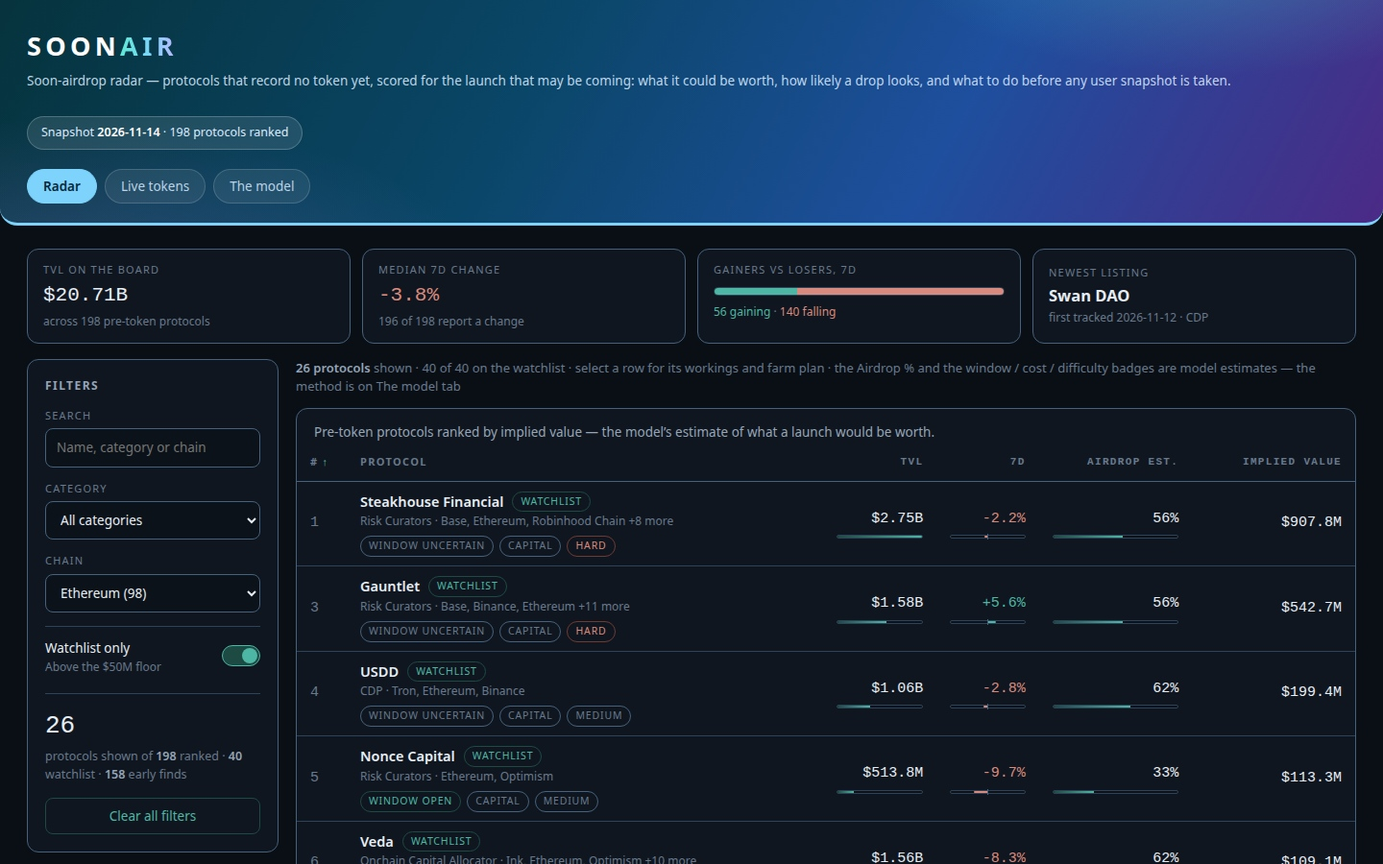
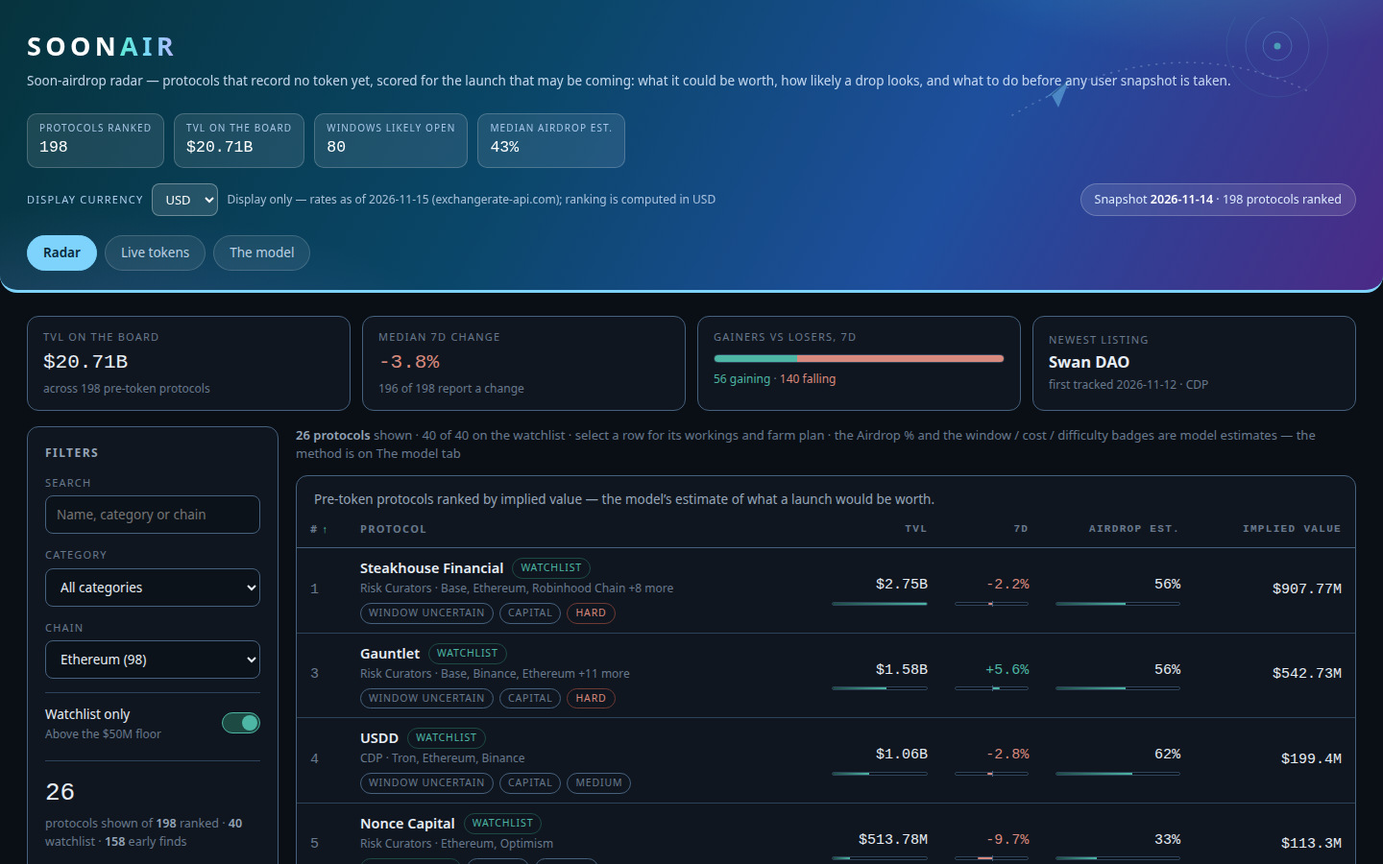
SOONAIR v5: display-currency switching and a fuller masthead
- Currency selector in the masthead (USD/EUR/GBP/JPY/CNY/IDR/KRW): rates baked
  into data.js at build time from exchangerate-api.com (2026-11-15), conversion
  display-only through one formatter; ranking and model maths stay in USD, and
  the selector carries that note. Zero-decimal currencies show no cents.
- Masthead stat cluster from the board itself (protocols ranked, total TVL,
  windows likely open, median airdrop estimate) over an inline-SVG radar motif.
- board.json byte-identical; dashboard source 65,195 of the 65,536 cap.

diff --git a/dashboard/app.js b/dashboard/app.js
@@ -11,15 +11,39 @@
   var app = document.getElementById('app');
   var maxTvl = 0;
   DATA.rows.forEach(function (r) { if (r.tvl_usd > maxTvl) maxTvl = r.tvl_usd; });
-  var state = { view: 'board', q: '', category: 'all', chain: 'all', watch: false, sort: 'rank', dir: 1, selected: null };
+  // the masthead's stat cluster: aggregates of the board itself, computed once
+  var openCount = 0;
+  var airSorted = DATA.rows.map(function (r) { return r.air; }).sort(function (a, b) { return a - b; });
+  DATA.rows.forEach(function (r) { if (r.win === 0) openCount++; });
+  var medAir = airSorted.length ? airSorted[Math.floor(airSorted.length / 2)] : 0;
+  // display currency: the rates are baked into data.js (DATA.fx) so the page stays offline, and
+  // conversion is display only — ranking, sorting and every model figure stay in USD, as the
+  // note beside the selector in the masthead says. Percentages, multiples and scores never pass
+  // through this formatter, so they never convert.
+  var CCYS = ['USD', 'EUR', 'GBP', 'JPY', 'CNY', 'IDR', 'KRW'];
+  var NO_CENTS = { JPY: 1, IDR: 1, KRW: 1 };
+  var FXD = DATA.fx || { as_of: '', source: '', rates: {} };
+  function loadCcy() {
+    try { var c = window.localStorage.getItem('soonair-ccy'); return CCYS.indexOf(c) >= 0 ? c : 'USD'; }
+    catch (e) { return 'USD'; }
+  }
+  function saveCcy() { try { window.localStorage.setItem('soonair-ccy', state.ccy); } catch (e) { /* a blocked store just means the choice lasts the visit */ } }
+  var state = { view: 'board', q: '', category: 'all', chain: 'all', watch: false, sort: 'rank', dir: 1, selected: null, ccy: loadCcy() };
 
-  var usd0 = new Intl.NumberFormat('en-US', { style: 'currency', currency: 'USD', maximumFractionDigits: 0 });
-  function fmtUsd(n) {
+  var fmtCache = {};
+  function fmtMoney(n) {
     if (n === null || n === undefined || !isFinite(n)) return 'n/a';
-    if (Math.abs(n) >= 1e9) return '$' + (n / 1e9).toFixed(2) + 'B';
-    if (Math.abs(n) >= 1e6) return '$' + (n / 1e6).toFixed(1) + 'M';
-    if (Math.abs(n) >= 1e3) return '$' + Math.round(n / 1e3) + 'K';
-    return usd0.format(n);
+    var c = state.ccy;
+    var f = fmtCache[c];
+    if (!f) {
+      f = fmtCache[c] = {
+        rate: FXD.rates[c] || 1,
+        full: new Intl.NumberFormat('en-US', { style: 'currency', currency: c, maximumFractionDigits: 0 }),
+        big: new Intl.NumberFormat('en-US', { style: 'currency', currency: c, notation: 'compact', maximumFractionDigits: NO_CENTS[c] ? 0 : 2 })
+      };
+    }
+    var v = n * f.rate;
+    return Math.abs(v) >= 10000 ? f.big.format(v) : f.full.format(v);
   }
   function fmtPct(n) {
     if (n === null || n === undefined || !isFinite(n)) return 'n/a';
@@ -115,16 +139,48 @@
     writeHash(); render();
   }
 
-  // ---- chrome: a coloured masthead band — wordmark, provenance chip and the three view tabs
+  // ---- chrome: a coloured masthead band — wordmark, a radar motif, the board's own vital
+  // signs, the currency control and the three view tabs
+  function hstat(k, v) {
+    return el('div', { class: 'hstat' },
+      el('div', { class: 'hk', text: k }),
+      el('div', { class: 'hv', text: v }));
+  }
   function topbar() {
+    // decoration only: radar rings, a dotted route arc and a paper plane, drawn in the gradient
+    var motif = el('div', { class: 'motif', 'aria-hidden': 'true' });
+    motif.innerHTML = '<svg width="360" height="118" viewBox="0 0 360 118" fill="none"><circle cx="282" cy="30" r="15" stroke="rgba(125,211,252,.5)"/><circle cx="282" cy="30" r="33" stroke="rgba(125,211,252,.30)"/><circle cx="282" cy="30" r="53" stroke="rgba(94,234,212,.18)"/><circle cx="282" cy="30" r="3.5" fill="#5eead4"/><path d="M6 102 Q170 6 316 78" stroke="rgba(219,234,254,.45)" stroke-width="1.6" stroke-dasharray="1 7" stroke-linecap="round"/><path d="M40 84 L66 64 L54 94 L47 81 Z" fill="rgba(125,211,252,.8)"/><path d="M47 81 L66 64" stroke="rgba(6,40,59,.55)" stroke-width="1.2"/></svg>';
     return el('div', { class: 'topbar' },
+      motif,
       el('div', { class: 'brand' },
         el('h1', null, 'SOON', el('em', null, 'AIR')),
         el('div', { class: 'tag', text: 'Soon-airdrop radar — protocols that record no token yet, scored for the launch that may be coming: what it could be worth, how likely a drop looks, and what to do before any user snapshot is taken.' })
       ),
-      el('div', { class: 'topmeta' },
-        'Snapshot ', el('b', { text: DATA.as_of }), ' · ' + DATA.board_size + ' protocols ranked')
+      el('div', { class: 'hstats' },
+        hstat('Protocols ranked', String(DATA.board_size)),
+        hstat('TVL on the board', fmtMoney(DATA.pulse.total_tvl_usd)),
+        hstat('Windows likely open', String(openCount)),
+        hstat('Median airdrop est.', medAir + '%'))
     );
+  }
+
+  // the masthead's control row: the display-currency selector with its honesty note, and the
+  // provenance chip that used to sit beside the wordmark
+  function mastctl() {
+    var sel = el('select', { 'aria-label': 'Display currency' });
+    CCYS.forEach(function (c) {
+      var o = el('option', { value: c, text: c });
+      if (c === state.ccy) o.setAttribute('selected', 'selected');
+      sel.appendChild(o);
+    });
+    sel.addEventListener('change', function () { state.ccy = sel.value; saveCcy(); render(); });
+    return el('div', { class: 'mastctl' },
+      el('div', { class: 'ccy' },
+        el('label', { text: 'Display currency' }),
+        sel,
+        el('span', { class: 'ccynote', text: 'Display only — rates as of ' + FXD.as_of + ' (' + FXD.source + '); ranking is computed in USD' })),
+      el('div', { class: 'topmeta' },
+        'Snapshot ', el('b', { text: DATA.as_of }), ' · ' + DATA.board_size + ' protocols ranked'));
   }
 
   function tabs() {
@@ -176,7 +232,7 @@
       el('div', { class: 'toggle' },
         el('span', null,
           el('span', { class: 'tlabel', text: 'Watchlist only' }),
-          el('span', { class: 'tsub', text: 'Above the $' + Math.round(DATA.floor_usd / 1e6) + 'M floor' })),
+          el('span', { class: 'tsub', text: 'Above the ' + fmtMoney(DATA.floor_usd) + ' floor' })),
         el('span', { class: 'switch' }, toggle, el('span', { class: 'track' }))),
       el('div', { class: 'rail-count' },
         el('div', { class: 'n', text: String(shown) }),
@@ -196,7 +252,7 @@
     return el('div', { class: 'pulse' },
       el('div', { class: 'pcell' },
         el('div', { class: 'k', text: 'TVL on the board' }),
-        el('div', { class: 'v', text: fmtUsd(p.total_tvl_usd) }),
+        el('div', { class: 'v', text: fmtMoney(p.total_tvl_usd) }),
         el('div', { class: 's', text: 'across ' + DATA.board_size + ' pre-token protocols' })),
       el('div', { class: 'pcell' },
         el('div', { class: 'k', text: 'Median 7d change' }),
@@ -230,8 +286,8 @@
             n.watchlist ? el('span', { class: 'badge wl', text: 'Watchlist' }) : el('span', { class: 'badge', text: 'Early find' })),
           el('div', { class: 'nc-date', text: 'First tracked ' + n.listed_at }),
           el('div', { class: 'nc-figs' },
-            el('span', null, el('span', { class: 'nc-k', text: 'TVL ' }), fmtUsd(n.tvl_usd)),
-            el('span', null, el('span', { class: 'nc-k', text: 'Implied ' }), fmtUsd(n.implied_value_usd))),
+            el('span', null, el('span', { class: 'nc-k', text: 'TVL ' }), fmtMoney(n.tvl_usd)),
+            el('span', null, el('span', { class: 'nc-k', text: 'Implied ' }), fmtMoney(n.implied_value_usd))),
           el('div', { class: 'psub', text: n.category || 'Uncategorized' }));
       })));
   }
@@ -287,7 +343,7 @@
               el('span', { class: 'badge' + (r.cost === 0 ? ' good' : ''), text: COST_L[r.cost] }),
               el('span', { class: 'badge' + (r.diff === 2 ? ' risk' : ''), text: DIFF_L[r.diff] }))),
           el('td', { class: 'num' },
-            el('div', { text: fmtUsd(r.tvl_usd) }),
+            el('div', { text: fmtMoney(r.tvl_usd) }),
             el('div', { class: 'tbar', 'aria-hidden': 'true' },
               el('div', { class: 'tfill', style: 'width:' + (maxTvl > 0 ? (r.tvl_usd / maxTvl * 100) : 0).toFixed(1) + '%' }))),
           el('td', { class: dcls },
@@ -297,7 +353,7 @@
             el('div', null, el('span', { class: 'big', text: r.air + '%' })),
             el('div', { class: 'tbar', 'aria-hidden': 'true' },
               el('div', { class: 'tfill', style: 'width:' + r.air + '%' }))),
-          el('td', { class: 'num' }, el('span', { class: 'big', text: fmtUsd(r.implied_value_usd) }))
+          el('td', { class: 'num' }, el('span', { class: 'big', text: fmtMoney(r.implied_value_usd) }))
         ));
       });
       main = el('div', { class: 'panel' }, el('table', null,
@@ -335,7 +391,7 @@
     var maxs = [sc.prop_weight, sc.tvl_weight, sc.age_weight, sc.momentum_weight, sc.breadth_weight];
     var notes = [
       'the shrunk share of ' + (row.category || 'Uncategorized') + ' protocols in the snapshot that already record a token — shrinkage prior ' + sc.prop_prior,
-      fmtUsd(row.tvl_usd) + ' on a log ramp from ' + fmtUsd(sc.tvl_floor_usd) + ' (no points) to ' + fmtUsd(sc.tvl_full_usd) + ' (full points)',
+      fmtMoney(row.tvl_usd) + ' on a log ramp from ' + fmtMoney(sc.tvl_floor_usd) + ' (no points) to ' + fmtMoney(sc.tvl_full_usd) + ' (full points)',
       fmtAge(row.age_days) + ' with no token on record' + (row.age_days === null || row.age_days === undefined ? ' — no date on record, counted as ' + sc.unknown_age_days + ' days' : ''),
       'a 7-day TVL change of ' + fmtPct(row.change_7d) + ', mapped from ' + sc.momentum_floor_pct + '% across ' + sc.momentum_span_pct + ' points',
       (row.chains || []).length + ' chain(s) served; full points at ' + sc.breadth_full_chains,
@@ -359,8 +415,8 @@
     var costText = row.cost === 0
       ? 'Free to join: an account signup, no position locked, any balance stays spendable.'
       : row.cost === 2
-        ? 'Capital: the farm plan’s core step (step 2) locks a position of $150 or more — the amount is stated there.'
-        : 'Low $: the plan works a small balance; its core step commits under $150.';
+        ? 'Capital: the farm plan’s core step (step 2) locks a position of ' + fmtMoney(150) + ' or more — the amount is stated there.'
+        : 'Low $: the plan works a small balance; its core step commits under ' + fmtMoney(150) + '.';
     var facts = [
       ['Snapshot window', WIN_L[row.win]],
       ['First tracked', row.listed_at || 'unrecorded'],
@@ -395,8 +451,8 @@
         el('div', { class: 'pnote', text: note }));
     }
     var parts = [
-      pbar('TVL vs the field', row.tvl_pct, fmtUsd(row.tvl_usd) + ' against ' + DATA.board_size + ' ranked protocols'),
-      pbar('Implied value vs the field', row.value_pct, fmtUsd(row.implied_value_usd) + ' — the board’s ranking made visible'),
+      pbar('TVL vs the field', row.tvl_pct, fmtMoney(row.tvl_usd) + ' against ' + DATA.board_size + ' ranked protocols'),
+      pbar('Implied value vs the field', row.value_pct, fmtMoney(row.implied_value_usd) + ' — the board’s ranking made visible'),
     ];
     var own = mult(row);
     var med = row.cat_median_mult;
@@ -448,11 +504,11 @@
     var facts = [
       ['Category', row.category || 'Uncategorized'],
       ['Chains', (row.chains || []).join(', ') || 'unrecorded'],
-      ['TVL', fmtUsd(row.tvl_usd)],
+      ['TVL', fmtMoney(row.tvl_usd)],
       ['TVL change, 7d', fmtPct(row.change_7d)],
       ['First tracked', row.listed_at || 'unrecorded'],
       ['Age with no token', fmtAge(row.age_days)],
-      ['On the watchlist', row.watchlist ? 'Yes — above the $' + Math.round(DATA.floor_usd / 1e6) + 'M floor' : 'No — an early find'],
+      ['On the watchlist', row.watchlist ? 'Yes — above the ' + fmtMoney(DATA.floor_usd) + ' floor' : 'No — an early find'],
       ['Token', 'none on record'],
       ['Implied multiple', mult(row) === null ? 'n/a' : fmtRatio(mult(row)) + ' of TVL'],
     ];
@@ -466,21 +522,21 @@
           row.watchlist ? el('span', { class: 'badge wl', text: 'Watchlist' }) : el('span', { class: 'badge', text: 'Early find' }))),
       el('div', { class: 'stats', style: 'margin-top:16px' },
         statTile('Rank', '#' + row.rank, 'of ' + DATA.board_size + ' priced'),
-        statTile('TVL', fmtUsd(row.tvl_usd), 'the snapshot’s figure'),
+        statTile('TVL', fmtMoney(row.tvl_usd), 'the snapshot’s figure'),
         statTile('TVL change, 7d', fmtPct(row.change_7d), 'momentum into a launch'),
-        statTile('Implied value', fmtUsd(row.implied_value_usd), mult(row) === null ? '' : fmtRatio(mult(row)) + ' of TVL')),
+        statTile('Implied value', fmtMoney(row.implied_value_usd), mult(row) === null ? '' : fmtRatio(mult(row)) + ' of TVL')),
       el('div', { class: 'detail-grid' },
         el('div', { class: 'col' },
           outlookCard(row),
           standCard(row),
           el('section', { class: 'card' },
             el('h3', { text: 'How the model prices it' }),
-            frow('TVL', null, 'the snapshot’s figure', fmtUsd(row.tvl_usd), 'base', false),
-            frow('R · comparable multiple', row.comp_ratio, row.comp_count + ' launched ' + (row.category || '') + ' protocols set this price', fmtUsd(Math.round(afterComp)), '', true),
-            frow('G · momentum', row.growth_multiplier, '7-day TVL change of ' + fmtPct(row.change_7d), fmtUsd(Math.round(afterGrowth)), '', true),
-            frow('M · track record', row.maturity_multiplier, fmtAge(row.age_days) + ' with no token on record', fmtUsd(Math.round(afterMat)), '', true),
-            frow('B · breadth', row.breadth_multiplier, (row.chains || []).length + ' chain(s) served', fmtUsd(Math.round(afterMat * row.breadth_multiplier)), '', true),
-            frow('Implied value', null, 'the model’s estimate, not a price or a promise', fmtUsd(row.implied_value_usd), 'total', false),
+            frow('TVL', null, 'the snapshot’s figure', fmtMoney(row.tvl_usd), 'base', false),
+            frow('R · comparable multiple', row.comp_ratio, row.comp_count + ' launched ' + (row.category || '') + ' protocols set this price', fmtMoney(Math.round(afterComp)), '', true),
+            frow('G · momentum', row.growth_multiplier, '7-day TVL change of ' + fmtPct(row.change_7d), fmtMoney(Math.round(afterGrowth)), '', true),
+            frow('M · track record', row.maturity_multiplier, fmtAge(row.age_days) + ' with no token on record', fmtMoney(Math.round(afterMat)), '', true),
+            frow('B · breadth', row.breadth_multiplier, (row.chains || []).length + ' chain(s) served', fmtMoney(Math.round(afterMat * row.breadth_multiplier)), '', true),
+            frow('Implied value', null, 'the model’s estimate, not a price or a promise', fmtMoney(row.implied_value_usd), 'total', false),
             el('div', { class: 'note', text: 'Bars share one scale, ×0 to ×2.5; the tick marks ×1.' })),
           el('section', { class: 'card' },
             el('h3', { text: 'The record' }),
@@ -510,17 +566,17 @@
           el('span', { class: 'pname', text: r.name }),
           el('div', { class: 'psub', text: (r.category || 'Uncategorized') + ' · ' + ((r.chains || []).slice(0, 3).join(', ') || '') })),
         el('td', { class: 'num', text: r.symbol || '—' }),
-        el('td', { class: 'num', text: fmtUsd(r.tvl_usd) }),
+        el('td', { class: 'num', text: fmtMoney(r.tvl_usd) }),
         el('td', { class: r.change_7d > 0 ? 'delta up' : (r.change_7d < 0 ? 'delta down' : 'delta flat'), text: fmtPct(r.change_7d) }),
-        el('td', { class: 'num', text: fmtUsd(r.mcap_usd) }),
+        el('td', { class: 'num', text: fmtMoney(r.mcap_usd) }),
         el('td', { class: 'num', text: r.tvl_usd > 0 && r.mcap_usd ? fmtRatio(r.mcap_usd / r.tvl_usd) : 'n/a' })));
     });
     return el('div', null,
       el('div', { class: 'stats' },
         statTile('Protocols trading', String(DATA.live_total), 'never ranked by the model'),
         statTile('Shown here', String(DATA.live.length), 'the largest by TVL'),
-        statTile('Their combined TVL', fmtUsd(tvlSum), 'of the ones shown'),
-        statTile('Combined market cap', fmtUsd(mcapSum), 'a fact, not an estimate')),
+        statTile('Their combined TVL', fmtMoney(tvlSum), 'of the ones shown'),
+        statTile('Combined market cap', fmtMoney(mcapSum), 'a fact, not an estimate')),
       el('div', { class: 'panel' }, el('table', { class: 'compact' },
         el('caption', { text: 'Already trading: the ' + DATA.live_total + ' protocols whose token exists are never ranked by the model — their market cap is a fact, not an estimate. The largest ' + DATA.live.length + ' are shown; their FDV/TVL ratios are the comparables the radar prices from.' }),
         el('thead', null, el('tr', null,
@@ -541,7 +597,7 @@
       return el('div', { class: 'catrow' },
         el('div', { class: 'cathead' },
           el('span', { text: name }),
-          el('span', { class: 'catfig', text: fmtUsd(tvl) + ' · ' + count + ' ranked' })),
+          el('span', { class: 'catfig', text: fmtMoney(tvl) + ' · ' + count + ' ranked' })),
         el('div', { class: 'cattrack', 'aria-hidden': 'true' },
           el('div', { class: 'catfill', style: 'width:' + (max > 0 ? (tvl / max * 100) : 0).toFixed(1) + '%' })));
     }
@@ -579,9 +635,9 @@
             el('p', null, el('b', { text: 'B — breadth. ' }), '1 + ' + m.breadth_per_chain + ' per extra chain served, capped at ' + m.breadth_max_chains + '. Distribution a token launches into is worth a little, not a lot.')),
           el('section', { class: 'card' },
             el('h3', { text: 'How SOONAIR scores' }),
-            el('p', null, el('b', { text: 'Airdrop likelihood, 0–100. ' }), 'Five parts, every one computed from the snapshot and printed in full on each protocol’s detail page. Category launch share, ' + DATA.score.prop_weight + ' points: the share of the category’s own protocols that already record a token, shrunk toward the snapshot-wide share — ' + DATA.launched_count + ' of ' + DATA.snapshot_count + ' protocols (' + Math.round(DATA.launch_share * 100) + '%) — with a prior of ' + DATA.score.prop_prior + ', the same shrinkage R uses. TVL band, ' + DATA.score.tvl_weight + ': a log ramp from ' + fmtUsd(DATA.score.tvl_floor_usd) + ' to ' + fmtUsd(DATA.score.tvl_full_usd) + '. Track record, ' + DATA.score.age_weight + ': 1 − exp(−age / ' + DATA.score.age_tau_days + ' days), an unrecorded listing date counting as ' + DATA.score.unknown_age_days + ' days. Momentum, ' + DATA.score.momentum_weight + ': the 7-day change mapped from ' + DATA.score.momentum_floor_pct + '% across ' + DATA.score.momentum_span_pct + ' points. Breadth, ' + DATA.score.breadth_weight + ': chains served, full at ' + DATA.score.breadth_full_chains + '.'),
+            el('p', null, el('b', { text: 'Airdrop likelihood, 0–100. ' }), 'Five parts, every one computed from the snapshot and printed in full on each protocol’s detail page. Category launch share, ' + DATA.score.prop_weight + ' points: the share of the category’s own protocols that already record a token, shrunk toward the snapshot-wide share — ' + DATA.launched_count + ' of ' + DATA.snapshot_count + ' protocols (' + Math.round(DATA.launch_share * 100) + '%) — with a prior of ' + DATA.score.prop_prior + ', the same shrinkage R uses. TVL band, ' + DATA.score.tvl_weight + ': a log ramp from ' + fmtMoney(DATA.score.tvl_floor_usd) + ' to ' + fmtMoney(DATA.score.tvl_full_usd) + '. Track record, ' + DATA.score.age_weight + ': 1 − exp(−age / ' + DATA.score.age_tau_days + ' days), an unrecorded listing date counting as ' + DATA.score.unknown_age_days + ' days. Momentum, ' + DATA.score.momentum_weight + ': the 7-day change mapped from ' + DATA.score.momentum_floor_pct + '% across ' + DATA.score.momentum_span_pct + ' points. Breadth, ' + DATA.score.breadth_weight + ': chains served, full at ' + DATA.score.breadth_full_chains + '.'),
             el('p', null, el('b', { text: 'Snapshot window. ' }), 'An estimate from age alone — protocols do not publish snapshot dates, so no date is ever shown as one. Under ' + DATA.score.window_open_days + ' days since first tracked: window likely open. Under ' + (DATA.score.window_risk_days / 365) + ' years: window uncertain, and a protocol with no date on record reads uncertain too. Older: snapshot risk — the user snapshot, if there ever is one, was likely already taken. The first-tracked date beside the call is a fact from the record.'),
-            el('p', null, el('b', { text: 'Entry cost. ' }), 'Read off the row’s own farm plan, never its reputation. Free: the payments and card family, whose joining is an account signup and locks no position. Capital: the plan’s core step locks a position — its text commits to supply, deposit, stake, mint, margin, collateral or a liquidity pool — of $150 or more, the plan’s own capital figure for a protocol of its size. Low $: everything smaller, a balance worked rather than a position locked.'),
+            el('p', null, el('b', { text: 'Entry cost. ' }), 'Read off the row’s own farm plan, never its reputation. Free: the payments and card family, whose joining is an account signup and locks no position. Capital: the plan’s core step locks a position — its text commits to supply, deposit, stake, mint, margin, collateral or a liquidity pool — of ' + fmtMoney(150) + ' or more, the plan’s own capital figure for a protocol of its size. Low $: everything smaller, a balance worked rather than a position locked.'),
             el('p', null, el('b', { text: 'Difficulty. ' }), 'Points: 1 for a plan of 6 or more steps, the cost class itself (Free 0, Low $ 1, Capital 2), and 1 for a protocol spread over 5 or more chains. A total of 0–2 reads Easy, 3 Medium, 4 Hard.'),
             el('p', null, 'These four calls are estimates with their weights in the open, not measurements: disagree with a weight and every figure on the board can be re-derived by hand.')),
           el('section', { class: 'card' },
@@ -609,8 +665,9 @@
   function render() {
     app.textContent = '';
     var wrap = el('div', { class: 'wrap' });
-    // the masthead: one coloured band carrying the wordmark, the provenance chip and the view tabs
-    var mast = el('header', { class: 'masthead' }, topbar());
+    // the masthead: one coloured band carrying the wordmark, the stat cluster, the currency
+    // control row and the view tabs
+    var mast = el('header', { class: 'masthead' }, topbar(), mastctl());
     var selected = state.selected ? DATA.rows.filter(function (r) { return r.slug === state.selected; })[0] : null;
     if (selected) {
       wrap.appendChild(mast);

diff --git a/dashboard/app.css b/dashboard/app.css
@@ -48,7 +48,7 @@ main { display: block; }
   border-bottom: 3px solid var(--sky);
   border-radius: 0 0 18px 18px;
 }
-.topbar { display: flex; align-items: flex-start; justify-content: space-between; gap: 24px; flex-wrap: wrap; }
+.topbar { display: flex; align-items: flex-start; justify-content: space-between; gap: 24px; flex-wrap: wrap; position: relative; }
 .brand h1 { font-size: 27px; letter-spacing: 0.16em; margin: 0; font-weight: 700; color: #ffffff; }
 .brand h1 em {
   font-style: normal;
@@ -63,6 +63,22 @@ main { display: block; }
   border-radius: 99px; padding: 7px 14px;
 }
 .topmeta b { color: #ffffff; font-weight: 600; }
+
+/* the masthead's stat cluster: the board's vital signs on frosted tiles, laid over a
+   decorative radar-and-route motif drawn into the gradient, above the control row */
+.motif { position: absolute; right: 4px; top: -10px; opacity: .55; pointer-events: none; }
+.brand, .hstats { position: relative; z-index: 1; }
+.hstats { display: flex; gap: 10px; flex-wrap: wrap; justify-content: flex-end; }
+.hstat { background: rgba(255,255,255,.09); border: 1px solid rgba(255,255,255,.20); border-radius: 10px; padding: 7px 12px; min-width: 102px; }
+.hstat .hk { font-size: 10px; letter-spacing: .11em; text-transform: uppercase; color: rgba(191,219,254,.85); }
+.hstat .hv { font-family: var(--num); font-size: 16.5px; color: #fff; margin-top: 1px; white-space: nowrap; }
+.mastctl { display: flex; align-items: center; justify-content: space-between; gap: 10px 18px; flex-wrap: wrap; margin-top: 16px; position: relative; z-index: 1; }
+.ccy { display: flex; align-items: center; gap: 9px; flex-wrap: wrap; }
+.ccy label { font-size: 11px; letter-spacing: .11em; text-transform: uppercase; color: rgba(191,219,254,.9); }
+.ccy select { width: auto; background: rgba(255,255,255,.12); color: #fff; border-color: rgba(255,255,255,.32); padding: 6px 9px; font-size: 13px; }
+.ccy select option { color: #0a0f16; }
+.ccynote { font-size: 12px; color: rgba(219,234,254,.75); }
+.mastctl .topmeta { margin-top: 0; }
 
 /* view tabs: pills resting on the masthead colour, the current one filled sky */
 .tabs { display: flex; gap: 8px; margin: 20px 0 2px; flex-wrap: wrap; }
@@ -279,6 +295,8 @@ button.pcell:hover { border-color: var(--accent); }
 @media (max-width: 720px) {
   .wrap { padding: 22px 14px 44px; }
   .masthead { margin: -22px -14px 20px; padding: 22px 14px 14px; }
+  .motif { display: none; }
+  .hstats { justify-content: flex-start; }
   .rail { grid-template-columns: 1fr; }
   .facts { grid-template-columns: 1fr 1fr; }
   .panel { overflow-x: auto; }

diff --git a/lib/model.ts b/lib/model.ts
@@ -158,6 +158,25 @@ export const SCORE: ScoreConstants = {
   window_risk_days: 1095,
 };
 
+/**
+ * Display-currency rates, baked in at build time so the dashboard stays fully offline: units of
+ * each currency per 1 USD, from exchangerate-api.com's public table of 2026-11-15. Display only —
+ * every figure the model computes, ranks and sorts by stays in USD; the dashboard converts at
+ * render time and says so beside the selector.
+ */
+export interface FxData {
+  /** The rates' own date, as the source published it. */
+  as_of: string;
+  source: string;
+  rates: Record<string, number>;
+}
+
+export const FX: FxData = {
+  as_of: '2026-11-15',
+  source: 'exchangerate-api.com',
+  rates: { USD: 1, EUR: 0.905984, GBP: 0.756391, JPY: 159.779, CNY: 6.68968, IDR: 18229.4, KRW: 1336.06 },
+};
+
 /** How many rows beyond the watchlist's 40 the radar adds, largest TVL first. */
 export const EARLY_ROWS = 180;
 
@@ -286,6 +305,8 @@ export interface RadarData {
   /** The scoring layer's constants, and the snapshot's own launch record behind the propensity part:
    * launched_count of snapshot_count protocols already record a token, a share of launch_share. */
   score: ScoreConstants;
+  /** Display-currency rates baked in at build time; conversion happens in the dashboard, display only. */
+  fx: FxData;
   launched_count: number;
   snapshot_count: number;
   launch_share: number;
@@ -879,6 +900,7 @@ export function buildRadar(snapshot: Snapshot, model: ModelConstants = MODEL): {
     model,
     model_version: MODEL_VERSION,
     score: SCORE,
+    fx: FX,
     launched_count: launch.launched,
     snapshot_count: launch.total,
     launch_share: round4(launch.share),

diff --git a/README.md b/README.md
@@ -103,6 +103,19 @@ age sets the hold (30–75 days, long enough to span several weekly snapshots), 
 change sets the sizing note — a protocol whose TVL fell hard that week gets a halved first position,
 not the standard one. Every step states what it costs and how long it takes.
 
+## The dashboard's display layer
+
+The masthead carries the board's own vital signs — protocols ranked, the ranked set's total TVL,
+how many protocols sit in a likely-open snapshot window, and the median airdrop estimate — over a
+radar motif drawn in the gradient. Below them sits a display-currency selector: USD, EUR, GBP,
+JPY, CNY, IDR and KRW. The rates are constants baked into `data.js` at build time (`FX` in
+`lib/model.ts`, from exchangerate-api.com's public table of 2026-11-15), so the page stays fully
+offline, and conversion is display only: every figure is converted at render time by the one
+formatter, zero-decimal currencies show no cents, and ranking, sorting and all model maths stay
+in USD — the selector's own note on the page says exactly that. Percentages, multiples and the
+airdrop score never convert. The farm plans are part of `board.json` and keep the dollar amounts
+the model wrote into them.
+
 ## Running it
 
 ```
